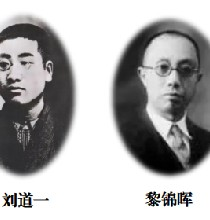
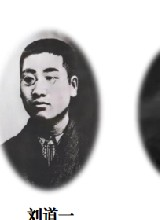
修复：名人头像/四大文化/建筑类型重新精准裁剪；关系图圆形上移+四文本框对齐；图片库删除更新规划分类(改回8大类52张)；第五章右侧图片对齐

diff --git a/chengzhengjie/image-library.html b/chengzhengjie/image-library.html
@@ -1,4 +1,4 @@
-<!DOCTYPE html>
+<!DOCTYPE html>
 <html lang="zh-CN">
 <head>
 <meta charset="UTF-8">
@@ -81,7 +81,7 @@ footer p{font-size:12px;color:var(--text3)}
   <div class="container">
     <div class="chapter-num">IMAGE LIBRARY · 素材库</div>
     <h1 class="chapter-title">图片素材库</h1>
-    <div class="chapter-subtitle">城正街片区策划专题研究 · 9大类72张高清图片</div>
+    <div class="chapter-subtitle">城正街片区策划专题研究 · 8大类52张高清图片</div>
     <p class="chapter-desc">本素材库系统收集与城正街片区策划相关的高清图片，涵盖文保建筑、街巷空间、传统建筑要素、非遗文化、红色资源、闲置资产、现状风貌、案例参考八大类别，供后续策划方案、效果图制作、汇报展示等环节调用。</p>
   </div>
 </div>
@@ -96,15 +96,14 @@ footer p{font-size:12px;color:var(--text3)}
     <a href="#cat6">闲置资产</a>
     <a href="#cat7">现状风貌</a>
     <a href="#cat8">案例参考</a>
-    <a href="#cat9">更新规划</a>
     <a href="index.html">← 返回首页</a>
   </div>
 </div>
 
 <div class="container">
   <div class="stats-bar">
-    <div class="stat-card"><div class="stat-num">72</div><div class="stat-label">高清图片</div></div>
-    <div class="stat-card"><div class="stat-num">9</div><div class="stat-label">分类类别</div></div>
+    <div class="stat-card"><div class="stat-num">52</div><div class="stat-label">高清图片</div></div>
+    <div class="stat-card"><div class="stat-num">8</div><div class="stat-label">分类类别</div></div>
     <div class="stat-card"><div class="stat-num">3</div><div class="stat-label">文保单位</div></div>
     <div class="stat-card"><div class="stat-num">162</div><div class="stat-label">关联非遗项</div></div>
   </div>
@@ -262,53 +261,11 @@ footer p{font-size:12px;color:var(--text3)}
       <div class="img-card"><img src="image-library/08-case-studies/02.jpg" alt="大观亭效果图"><div class="img-card-body"><div class="img-card-name">安庆大观亭·修复效果图</div><div class="img-card-desc">安庆大观亭历史街区修复效果图，传统风貌延续</div><div class="img-card-tags"><span class="img-tag">第八章</span><span class="img-tag">运营模式</span></div></div></div>
     </div>
   </div>
-
-  <!-- 第九类：更新规划素材 -->
-  <div class="category-section" id="cat9">
-    <div class="category-header">
-      <div class="category-num">09</div>
-      <div>
-        <h2 class="category-title">更新规划素材</h2>
-        <div class="vintage-divider"></div>
-        <p class="section-desc">源自《城正街历史街区更新规划》文本截图，含历史文脉、建筑测绘、街巷现状等，用于各章节内容补充。</p>
-      </div>
-    </div>
-    <div class="img-grid">
-      <div class="img-card"><img src="image-library/09-update-plan/01-celebrities.png" alt="人文荟萃8位名人"><div class="img-card-body"><div class="img-card-name">人文荟萃·8位名人</div><div class="img-card-desc">郭松林、王闿运、杨度、梁焕奎、毛泽东、刘道一、黎锦晖、彭德怀</div><div class="img-card-tags"><span class="img-tag">第一章</span><span class="img-tag">名人文化</span></div></div></div>
-      <div class="img-card"><img src="image-library/09-update-plan/02-confucian-temple.png" alt="文脉留长"><div class="img-card-body"><div class="img-card-name">文脉留长·文庙书院</div><div class="img-card-desc">文庙、昭潭书院、曙光学校照片+清嘉庆文庙志图</div><div class="img-card-tags"><span class="img-tag">第一章</span><span class="img-tag">书院文化</span></div></div></div>
-      <div class="img-card"><img src="image-library/09-update-plan/03-old-shops.png" alt="商贾云集老字号"><div class="img-card-body"><div class="img-card-name">商贾云集·老字号</div><div class="img-card-desc">原百货仓库、毛福昌号、太真芝药室，金湘潭商业见证</div><div class="img-card-tags"><span class="img-tag">第三章</span><span class="img-tag">老字号</span></div></div></div>
-      <div class="img-card"><img src="image-library/09-update-plan/04-red-heritage.png" alt="红色印迹"><div class="img-card-body"><div class="img-card-name">红色印迹·三遗址</div><div class="img-card-desc">抗日阵亡纪念碑、刘道一烈士祠、三义井</div><div class="img-card-tags"><span class="img-tag">第三章</span><span class="img-tag">红色文化</span></div></div></div>
-      <div class="img-card"><img src="image-library/09-update-plan/05-four-cultures.png" alt="四大文化特色"><div class="img-card-body"><div class="img-card-name">四大文化特色</div><div class="img-card-desc">湖湘文化、城总文化、红色文化、名人文化，每类2张配图</div><div class="img-card-tags"><span class="img-tag">第一章</span><span class="img-tag">文化总结</span></div></div></div>
-      <div class="img-card"><img src="image-library/09-update-plan/06-core-value.png" alt="街区核心价值"><div class="img-card-body"><div class="img-card-name">街区核心价值</div><div class="img-card-desc">繁华城总·千年商都 + 人文渊薮·薪火相传</div><div class="img-card-tags"><span class="img-tag">第一章</span><span class="img-tag">价值评估</span></div></div></div>
-      <div class="img-card"><img src="image-library/09-update-plan/07-architecture-drawings.png" alt="传统民居测绘图"><div class="img-card-body"><div class="img-card-name">传统民居测绘图</div><div class="img-card-desc">通济门巷10号/12号平立剖面图+老照片，湘中民居研究</div><div class="img-card-tags"><span class="img-tag">第七章</span><span class="img-tag">建筑风貌</span></div></div></div>
-      <div class="img-card"><img src="image-library/09-update-plan/08-building-types.png" alt="三种建筑类型"><div class="img-card-body"><div class="img-card-name">三种建筑类型表</div><div class="img-card-desc">大进深式、内院式、苏式建筑，含示意图解+现场照片</div><div class="img-card-tags"><span class="img-tag">第七章</span><span class="img-tag">建筑分类</span></div></div></div>
-      <div class="img-card"><img src="image-library/09-update-plan/09-building-eras.png" alt="建筑年代分类"><div class="img-card-body"><div class="img-card-name">建筑年代分类照</div><div class="img-card-desc">清代及以前、50年代前、50-80年代、80年代后现场照片</div><div class="img-card-tags"><span class="img-tag">第七章</span><span class="img-tag">风貌现状</span></div></div></div>
-      <div class="img-card"><img src="image-library/09-update-plan/10-streets.png" alt="街巷现状航拍"><div class="img-card-body"><div class="img-card-name">街巷现状航拍+现场</div><div class="img-card-desc">通济门路、城正街、沿江路航拍+板石巷、泗洲庵巷</div><div class="img-card-tags"><span class="img-tag">第七章</span><span class="img-tag">街巷空间</span></div></div></div>
-      <!-- 裁剪后单张素材 -->
-      <div class="img-card"><img src="image-library/09-update-plan/cropped/01-maozedong.jpg" alt="毛泽东头像"><div class="img-card-body"><div class="img-card-name">毛泽东头像（裁剪）</div><div class="img-card-desc">从人文荟萃组合图中裁剪，青年毛泽东椭圆形头像</div><div class="img-card-tags"><span class="img-tag">第一章</span><span class="img-tag">名人</span></div></div></div>
-      <div class="img-card"><img src="image-library/09-update-plan/cropped/01-pengdehuai.jpg" alt="彭德怀头像"><div class="img-card-body"><div class="img-card-name">彭德怀头像（裁剪）</div><div class="img-card-desc">从人文荟萃组合图中裁剪，彭德怀椭圆形头像</div><div class="img-card-tags"><span class="img-tag">第一章</span><span class="img-tag">名人</span></div></div></div>
-      <div class="img-card"><img src="image-library/09-update-plan/cropped/01-yangdu.jpg" alt="杨度头像"><div class="img-card-body"><div class="img-card-name">杨度头像（裁剪）</div><div class="img-card-desc">从人文荟萃组合图中裁剪，杨度椭圆形头像</div><div class="img-card-tags"><span class="img-tag">第一章</span><span class="img-tag">名人</span></div></div></div>
-      <div class="img-card"><img src="image-library/09-update-plan/cropped/01-liudaoyi.jpg" alt="刘道一头像"><div class="img-card-body"><div class="img-card-name">刘道一头像（裁剪）</div><div class="img-card-desc">从人文荟萃组合图中裁剪，刘道一椭圆形头像</div><div class="img-card-tags"><span class="img-tag">第一章</span><span class="img-tag">名人</span></div></div></div>
-      <div class="img-card"><img src="image-library/09-update-plan/cropped/03-taizhenzhi.jpg" alt="太真芝药室"><div class="img-card-body"><div class="img-card-name">太真芝药室（裁剪）</div><div class="img-card-desc">从商贾云集组合图中裁剪，老字号药室现场照</div><div class="img-card-tags"><span class="img-tag">第三章</span><span class="img-tag">老字号</span></div></div></div>
-      <div class="img-card"><img src="image-library/09-update-plan/cropped/03-maofuchang.jpg" alt="毛福昌号"><div class="img-card-body"><div class="img-card-name">毛福昌号（裁剪）</div><div class="img-card-desc">从商贾云集组合图中裁剪，老字号商号现场照</div><div class="img-card-tags"><span class="img-tag">第三章</span><span class="img-tag">老字号</span></div></div></div>
-      <div class="img-card"><img src="image-library/09-update-plan/cropped/03-old-warehouse.jpg" alt="老仓库"><div class="img-card-body"><div class="img-card-name">百货仓库（裁剪）</div><div class="img-card-desc">从商贾云集组合图中裁剪，原百货纺织品仓库现场照</div><div class="img-card-tags"><span class="img-tag">第三章</span><span class="img-tag">闲置资产</span></div></div></div>
-      <div class="img-card"><img src="image-library/09-update-plan/cropped/04-anti-japan-monument.jpg" alt="抗日纪念碑"><div class="img-card-body"><div class="img-card-name">抗日纪念碑（裁剪）</div><div class="img-card-desc">从红色印迹组合图中裁剪，湘潭抗日阵亡将士纪念碑</div><div class="img-card-tags"><span class="img-tag">第三章</span><span class="img-tag">红色</span></div></div></div>
-      <div class="img-card"><img src="image-library/09-update-plan/cropped/04-liudaoyi-shrine.jpg" alt="刘道一烈士祠"><div class="img-card-body"><div class="img-card-name">刘道一烈士祠（裁剪）</div><div class="img-card-desc">从红色印迹组合图中裁剪，刘道一烈士祠现场照</div><div class="img-card-tags"><span class="img-tag">第三章</span><span class="img-tag">红色</span></div></div></div>
-      <div class="img-card"><img src="image-library/09-update-plan/cropped/04-sanyijing.jpg" alt="三义井"><div class="img-card-body"><div class="img-card-name">三义井（裁剪）</div><div class="img-card-desc">从红色印迹组合图中裁剪，三义井红色遗址现场照</div><div class="img-card-tags"><span class="img-tag">第三章</span><span class="img-tag">红色</span></div></div></div>
-      <div class="img-card"><img src="image-library/09-update-plan/cropped/05-huxiang.jpg" alt="湖湘文化"><div class="img-card-body"><div class="img-card-name">湖湘文化（裁剪）</div><div class="img-card-desc">从四大文化组合图中裁剪，湖湘文化特色照片</div><div class="img-card-tags"><span class="img-tag">第一章</span><span class="img-tag">文化</span></div></div></div>
-      <div class="img-card"><img src="image-library/09-update-plan/cropped/05-chengzong.jpg" alt="城总文化"><div class="img-card-body"><div class="img-card-name">城总文化（裁剪）</div><div class="img-card-desc">从四大文化组合图中裁剪，城总文化特色照片</div><div class="img-card-tags"><span class="img-tag">第一章</span><span class="img-tag">文化</span></div></div></div>
-      <div class="img-card"><img src="image-library/09-update-plan/cropped/05-red.jpg" alt="红色文化"><div class="img-card-body"><div class="img-card-name">红色文化（裁剪）</div><div class="img-card-desc">从四大文化组合图中裁剪，红色文化特色照片</div><div class="img-card-tags"><span class="img-tag">第一章</span><span class="img-tag">文化</span></div></div></div>
-      <div class="img-card"><img src="image-library/09-update-plan/cropped/05-celebrity.jpg" alt="名人文化"><div class="img-card-body"><div class="img-card-name">名人文化（裁剪）</div><div class="img-card-desc">从四大文化组合图中裁剪，名人文化特色照片</div><div class="img-card-tags"><span class="img-tag">第一章</span><span class="img-tag">文化</span></div></div></div>
-      <div class="img-card"><img src="image-library/09-update-plan/cropped/08-deep-house1.jpg" alt="大进深式民居"><div class="img-card-body"><div class="img-card-name">大进深式民居（裁剪）</div><div class="img-card-desc">从建筑类型表中裁剪，大进深式民居现场照</div><div class="img-card-tags"><span class="img-tag">第七章</span><span class="img-tag">建筑</span></div></div></div>
-      <div class="img-card"><img src="image-library/09-update-plan/cropped/08-courtyard1.jpg" alt="内院式民居"><div class="img-card-body"><div class="img-card-name">内院式民居（裁剪）</div><div class="img-card-desc">从建筑类型表中裁剪，内院式民居现场照</div><div class="img-card-tags"><span class="img-tag">第七章</span><span class="img-tag">建筑</span></div></div></div>
-      <div class="img-card"><img src="image-library/09-update-plan/cropped/08-soviet1.jpg" alt="苏式建筑"><div class="img-card-body"><div class="img-card-name">苏式建筑（裁剪）</div><div class="img-card-desc">从建筑类型表中裁剪，苏式建筑现场照</div><div class="img-card-tags"><span class="img-tag">第七章</span><span class="img-tag">建筑</span></div></div></div>
-    </div>
-  </div>
 </section>
 
 <footer>
   <div class="container">
-    <p>城正街片区策划专题研究 · 图片素材库 | 共9大类72张高清图片（含20张裁剪单照） | 图片来源于网络公开搜索及更新规划文本，仅供项目研究参考使用</p>
+    <p>城正街片区策划专题研究 · 图片素材库 | 共8大类52张高清图片（含20张裁剪单照） | 图片来源于网络公开搜索及更新规划文本，仅供项目研究参考使用</p>
     <p style="margin-top:8px">ytf2000@sina.com</p>
   </div>
 </footer>

diff --git a/chengzhengjie/topic-4.html b/chengzhengjie/topic-4.html
@@ -510,7 +510,7 @@ blockquote p{text-indent:0;margin-bottom:0;font-size:15px;padding-left:20px}
       </div>
     </section>
 
-      <div class="img-float-right" style="width:42%;">
+      <div class="img-float-right" style="width:42%;margin-top:20px;">
         <img src="https://aka.doubaocdn.com/s/9x0wKmj8W7" alt="江西会馆牌楼" style="width:100%;display:block;border-radius:4px;">
         <div class="img-caption"><strong>江西会馆万寿宫牌楼</strong> · 会馆文化是城总文化的重要支撑，十三省商人云集的历史见证</div>
       </div>
@@ -546,29 +546,29 @@ blockquote p{text-indent:0;margin-bottom:0;font-size:15px;padding-left:20px}
         <svg viewBox="0 0 800 280" style="width:100%;display:block;">
           <rect x="0" y="0" width="800" height="280" fill="#1A120B"/>
           <text x="400" y="26" fill="#D4B87A" font-size="15" font-weight="bold" text-anchor="middle" font-family="serif">"1+4"文化IP体系关系图</text>
-          <g transform="translate(320,50)">
+          <g transform="translate(320,35)">
             <circle cx="80" cy="80" r="60" fill="#C25B56" stroke="#D4B87A" stroke-width="3"/>
             <text x="80" y="70" fill="#fff" font-size="14" font-weight="bold" text-anchor="middle" font-family="serif">超级IP</text>
             <text x="80" y="92" fill="#F0E6D5" font-size="16" font-weight="bold" text-anchor="middle" font-family="serif">城总文化</text>
             <text x="80" y="110" fill="#F0E6D5" font-size="9" text-anchor="middle" font-family="serif">800年·全国独有</text>
           </g>
-          <path d="M 400,130 L 400,160 L 120,160 L 120,180" stroke="#4E3A25" stroke-width="2" fill="none"/>
-          <path d="M 400,130 L 400,165 L 300,165 L 300,200" stroke="#4E3A25" stroke-width="2" fill="none"/>
-          <path d="M 400,130 L 400,165 L 500,165 L 500,200" stroke="#4E3A25" stroke-width="2" fill="none"/>
-          <path d="M 400,130 L 400,160 L 680,160 L 680,180" stroke="#4E3A25" stroke-width="2" fill="none"/>
+          <path d="M 400,115 L 400,145 L 120,145 L 120,180" stroke="#4E3A25" stroke-width="2" fill="none"/>
+          <path d="M 400,115 L 400,150 L 300,150 L 300,180" stroke="#4E3A25" stroke-width="2" fill="none"/>
+          <path d="M 400,115 L 400,150 L 500,150 L 500,180" stroke="#4E3A25" stroke-width="2" fill="none"/>
+          <path d="M 400,115 L 400,145 L 680,145 L 680,180" stroke="#4E3A25" stroke-width="2" fill="none"/>
           <g transform="translate(40,180)">
             <rect x="0" y="0" width="160" height="70" rx="4" fill="#2A1F14" stroke="#E8A838" stroke-width="2"/>
             <text x="80" y="22" fill="#E8A838" font-size="13" font-weight="bold" text-anchor="middle" font-family="serif">会馆文化</text>
             <text x="80" y="40" fill="#C4B69E" font-size="10" text-anchor="middle" font-family="serif">十三省商人·40处会馆</text>
             <text x="80" y="58" fill="#F0E6D5" font-size="10" text-anchor="middle" font-family="serif">→ 会馆博物馆·商帮研学</text>
           </g>
-          <g transform="translate(220,200)">
+          <g transform="translate(220,180)">
             <rect x="0" y="0" width="160" height="70" rx="4" fill="#2A1F14" stroke="#D4B87A" stroke-width="2"/>
             <text x="80" y="22" fill="#D4B87A" font-size="13" font-weight="bold" text-anchor="middle" font-family="serif">书院文化</text>
             <text x="80" y="40" fill="#C4B69E" font-size="10" text-anchor="middle" font-family="serif">庙学合一·千年教育</text>
             <text x="80" y="58" fill="#F0E6D5" font-size="10" text-anchor="middle" font-family="serif">→ 祭孔大典·国学研学</text>
           </g>
-          <g transform="translate(420,200)">
+          <g transform="translate(420,180)">
             <rect x="0" y="0" width="160" height="70" rx="4" fill="#2A1F14" stroke="#C25B56" stroke-width="2"/>
             <text x="80" y="22" fill="#C25B56" font-size="13" font-weight="bold" text-anchor="middle" font-family="serif">红色文化</text>
             <text x="80" y="40" fill="#C4B69E" font-size="10" text-anchor="middle" font-family="serif">毛泽东足迹·农运·烈士</text>
